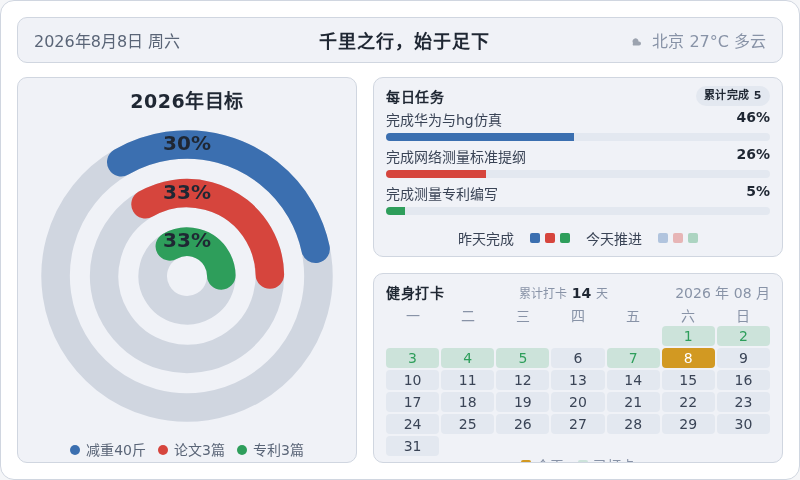
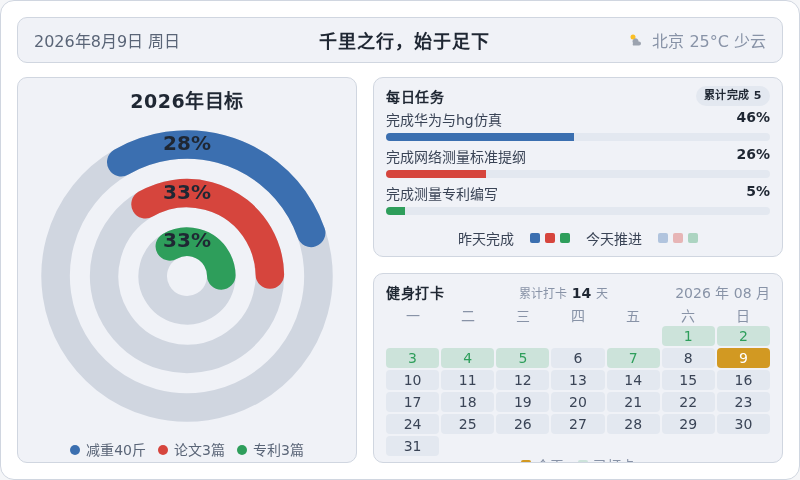
chore: 每日看板刷新 2026-08-09

diff --git a/output/dashboard.html b/output/dashboard.html
@@ -185,11 +185,11 @@
 <body>
   <div class="dash">
     <div class="topbar">
-      <div class="tb-date" id="tbDate">2026年8月8日 周六</div>
+      <div class="tb-date" id="tbDate">2026年8月9日 周日</div>
       <div class="tb-slogan">千里之行，始于足下</div>
       <div class="tb-weather">
-        <svg width="16" height="16" viewBox="0 0 16 16" aria-hidden="true"><path d="M5 11 a3 3 0 1 1 5.5 -1.5 h0.5 a2 2 0 1 1 0 4 H5 a2.5 2.5 0 0 1 0 -2.5z" fill="#9ca3af"/></svg>
-        <span>北京 27°C 多云</span>
+        <svg width="16" height="16" viewBox="0 0 16 16" aria-hidden="true"><circle cx="5" cy="5" r="2.5" fill="#fbbf24"/><path d="M5 11 a3 3 0 1 1 5.5 -1.5 h0.5 a2 2 0 1 1 0 4 H5 a2.5 2.5 0 0 1 0 -2.5z" fill="#9ca3af"/></svg>
+        <span>北京 25°C 少云</span>
       </div>
     </div>
     <div class="content">
@@ -200,9 +200,9 @@
           <svg viewBox="0 0 210 210" width="300" height="300" role="img" aria-label="三环进度仪表盘">
             <title>2026年目标三环进度</title>
             <g transform="rotate(-120 105 105)">
-              <circle cx="105" cy="105" r="92" fill="none" stroke="#d0d6e0" stroke-width="20"/><circle cx="105" cy="105" r="92" fill="none" stroke="#3b6fb0" stroke-width="20" stroke-linecap="round" stroke-dasharray="173.42 578.05"/><circle cx="105" cy="105" r="58" fill="none" stroke="#d0d6e0" stroke-width="20"/><circle cx="105" cy="105" r="58" fill="none" stroke="#d6453d" stroke-width="20" stroke-linecap="round" stroke-dasharray="120.26 364.42"/><circle cx="105" cy="105" r="24" fill="none" stroke="#d0d6e0" stroke-width="20"/><circle cx="105" cy="105" r="24" fill="none" stroke="#2e9e5b" stroke-width="20" stroke-linecap="round" stroke-dasharray="49.76 150.80"/>
+              <circle cx="105" cy="105" r="92" fill="none" stroke="#d0d6e0" stroke-width="20"/><circle cx="105" cy="105" r="92" fill="none" stroke="#3b6fb0" stroke-width="20" stroke-linecap="round" stroke-dasharray="161.85 578.05"/><circle cx="105" cy="105" r="58" fill="none" stroke="#d0d6e0" stroke-width="20"/><circle cx="105" cy="105" r="58" fill="none" stroke="#d6453d" stroke-width="20" stroke-linecap="round" stroke-dasharray="120.26 364.42"/><circle cx="105" cy="105" r="24" fill="none" stroke="#d0d6e0" stroke-width="20"/><circle cx="105" cy="105" r="24" fill="none" stroke="#2e9e5b" stroke-width="20" stroke-linecap="round" stroke-dasharray="49.76 150.80"/>
             </g>
-            <text x="105" y="13" text-anchor="middle" dominant-baseline="middle" fill="#1f2733" font-size="14" font-weight="700">30%</text><text x="105" y="47" text-anchor="middle" dominant-baseline="middle" fill="#1f2733" font-size="14" font-weight="700">33%</text><text x="105" y="81" text-anchor="middle" dominant-baseline="middle" fill="#1f2733" font-size="14" font-weight="700">33%</text>
+            <text x="105" y="13" text-anchor="middle" dominant-baseline="middle" fill="#1f2733" font-size="14" font-weight="700">28%</text><text x="105" y="47" text-anchor="middle" dominant-baseline="middle" fill="#1f2733" font-size="14" font-weight="700">33%</text><text x="105" y="81" text-anchor="middle" dominant-baseline="middle" fill="#1f2733" font-size="14" font-weight="700">33%</text>
           </svg>
         </div>
         <div class="legend"><div class="legend-row"><span class="dot" style="background:#3b6fb0"></span><span class="lg-name">减重40斤</span></div><div class="legend-row"><span class="dot" style="background:#d6453d"></span><span class="lg-name">论文3篇</span></div><div class="legend-row"><span class="dot" style="background:#2e9e5b"></span><span class="lg-name">专利3篇</span></div></div>
@@ -248,7 +248,7 @@
           <span class="cal-date">2026 年 08 月</span>
         </div>
         <div class="cal-grid wk"><span>一</span><span>二</span><span>三</span><span>四</span><span>五</span><span>六</span><span>日</span></div>
-        <div class="cal-grid"><span class="cell empty"></span><span class="cell empty"></span><span class="cell empty"></span><span class="cell empty"></span><span class="cell empty"></span><span class="cell done" style="background:rgba(46,158,91,0.18);color:#2e9e5b">1</span><span class="cell done" style="background:rgba(46,158,91,0.18);color:#2e9e5b">2</span><span class="cell done" style="background:rgba(46,158,91,0.18);color:#2e9e5b">3</span><span class="cell done" style="background:rgba(46,158,91,0.18);color:#2e9e5b">4</span><span class="cell done" style="background:rgba(46,158,91,0.18);color:#2e9e5b">5</span><span class="cell" style="background:#e3e8f0;color:#3a4456">6</span><span class="cell done" style="background:rgba(46,158,91,0.18);color:#2e9e5b">7</span><span class="cell today" style="background:#d29922;color:#ffffff">8</span><span class="cell" style="background:#e3e8f0;color:#3a4456">9</span><span class="cell" style="background:#e3e8f0;color:#3a4456">10</span><span class="cell" style="background:#e3e8f0;color:#3a4456">11</span><span class="cell" style="background:#e3e8f0;color:#3a4456">12</span><span class="cell" style="background:#e3e8f0;color:#3a4456">13</span><span class="cell" style="background:#e3e8f0;color:#3a4456">14</span><span class="cell" style="background:#e3e8f0;color:#3a4456">15</span><span class="cell" style="background:#e3e8f0;color:#3a4456">16</span><span class="cell" style="background:#e3e8f0;color:#3a4456">17</span><span class="cell" style="background:#e3e8f0;color:#3a4456">18</span><span class="cell" style="background:#e3e8f0;color:#3a4456">19</span><span class="cell" style="background:#e3e8f0;color:#3a4456">20</span><span class="cell" style="background:#e3e8f0;color:#3a4456">21</span><span class="cell" style="background:#e3e8f0;color:#3a4456">22</span><span class="cell" style="background:#e3e8f0;color:#3a4456">23</span><span class="cell" style="background:#e3e8f0;color:#3a4456">24</span><span class="cell" style="background:#e3e8f0;color:#3a4456">25</span><span class="cell" style="background:#e3e8f0;color:#3a4456">26</span><span class="cell" style="background:#e3e8f0;color:#3a4456">27</span><span class="cell" style="background:#e3e8f0;color:#3a4456">28</span><span class="cell" style="background:#e3e8f0;color:#3a4456">29</span><span class="cell" style="background:#e3e8f0;color:#3a4456">30</span><span class="cell" style="background:#e3e8f0;color:#3a4456">31</span></div>
+        <div class="cal-grid"><span class="cell empty"></span><span class="cell empty"></span><span class="cell empty"></span><span class="cell empty"></span><span class="cell empty"></span><span class="cell done" style="background:rgba(46,158,91,0.18);color:#2e9e5b">1</span><span class="cell done" style="background:rgba(46,158,91,0.18);color:#2e9e5b">2</span><span class="cell done" style="background:rgba(46,158,91,0.18);color:#2e9e5b">3</span><span class="cell done" style="background:rgba(46,158,91,0.18);color:#2e9e5b">4</span><span class="cell done" style="background:rgba(46,158,91,0.18);color:#2e9e5b">5</span><span class="cell" style="background:#e3e8f0;color:#3a4456">6</span><span class="cell done" style="background:rgba(46,158,91,0.18);color:#2e9e5b">7</span><span class="cell" style="background:#e3e8f0;color:#3a4456">8</span><span class="cell today" style="background:#d29922;color:#ffffff">9</span><span class="cell" style="background:#e3e8f0;color:#3a4456">10</span><span class="cell" style="background:#e3e8f0;color:#3a4456">11</span><span class="cell" style="background:#e3e8f0;color:#3a4456">12</span><span class="cell" style="background:#e3e8f0;color:#3a4456">13</span><span class="cell" style="background:#e3e8f0;color:#3a4456">14</span><span class="cell" style="background:#e3e8f0;color:#3a4456">15</span><span class="cell" style="background:#e3e8f0;color:#3a4456">16</span><span class="cell" style="background:#e3e8f0;color:#3a4456">17</span><span class="cell" style="background:#e3e8f0;color:#3a4456">18</span><span class="cell" style="background:#e3e8f0;color:#3a4456">19</span><span class="cell" style="background:#e3e8f0;color:#3a4456">20</span><span class="cell" style="background:#e3e8f0;color:#3a4456">21</span><span class="cell" style="background:#e3e8f0;color:#3a4456">22</span><span class="cell" style="background:#e3e8f0;color:#3a4456">23</span><span class="cell" style="background:#e3e8f0;color:#3a4456">24</span><span class="cell" style="background:#e3e8f0;color:#3a4456">25</span><span class="cell" style="background:#e3e8f0;color:#3a4456">26</span><span class="cell" style="background:#e3e8f0;color:#3a4456">27</span><span class="cell" style="background:#e3e8f0;color:#3a4456">28</span><span class="cell" style="background:#e3e8f0;color:#3a4456">29</span><span class="cell" style="background:#e3e8f0;color:#3a4456">30</span><span class="cell" style="background:#e3e8f0;color:#3a4456">31</span></div>
         <div class="cal-legend">
           <span style="color:#8893a7"><i class="sw" style="background:#d29922"></i>今天</span>
           <span style="color:#8893a7"><i class="sw" style="background:rgba(46,158,91,0.18)"></i>已打卡</span>
